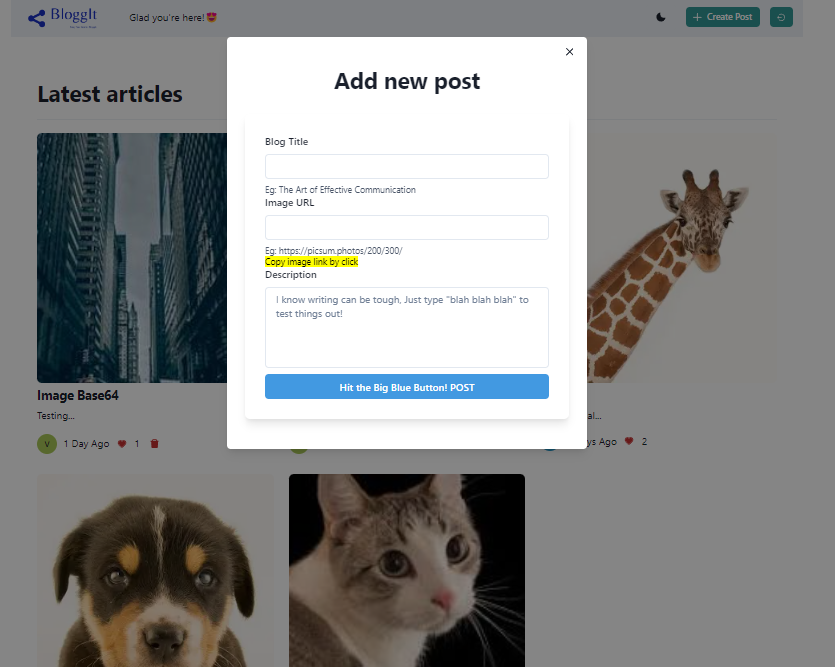
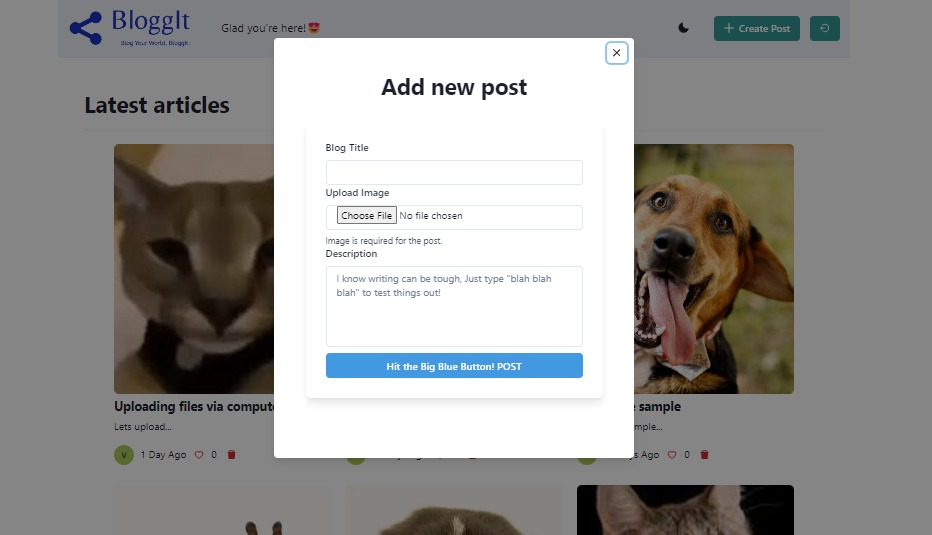
UI&ToggleLike&ReadMe&RevokePermission

diff --git a/src/components/layout/Navbar.jsx b/src/components/layout/Navbar.jsx
@@ -59,7 +59,7 @@ export default function Navbar() {
       <Box bg={useColorModeValue("gray.100", "gray.900")} px={4}>
         <Flex h={24} alignItems={"center"} justifyContent={"space-between"}>
           <IconButton
-            size={"md"}
+            size={"lg"}
             icon={isMenuOpen ? <CloseIcon /> : <HamburgerIcon />}
             aria-label={"Open Menu"}
             display={{ md: "none" }}
@@ -101,8 +101,8 @@ export default function Navbar() {
                 <Link
                   px={4}
                   py={2}
-                  fontSize="md"
-                  rounded={"md"}
+                  fontSize="lg"
+                  rounded={"lg"}
                   _hover={{
                     textDecoration: "none",
                   }}
@@ -113,21 +113,25 @@ export default function Navbar() {
             </HStack>
           </HStack>
           <Flex alignItems={"center"}>
-            <Button mr={4} onClick={toggleColorMode} size="md">
-              {colorMode === "light" ? <MoonIcon /> : <SunIcon />}
-            </Button>
-            {user ? (
-              <Button
-                variant={"solid"}
-                colorScheme={"teal"}
-                size={"md"}
-                fontSize="md"
-                mr={4}
-                onClick={onModalOpen}
-                leftIcon={<AddIcon />}
-              >
-                Create Post
+            <Tooltip label={ colorMode === "light" ? "Go Dark!" : "Go Light!"}>
+              <Button mr={4} onClick={toggleColorMode} size="lg">
+                {colorMode === "light" ? <MoonIcon /> : <SunIcon />}
               </Button>
+            </Tooltip>
+            {user ? (
+              <Tooltip label="Your Words, Your World - Start Blogging!">
+                <Button
+                  variant={"solid"}
+                  colorScheme={"teal"}
+                  size={"md"}
+                  fontSize="md"
+                  mr={4}
+                  onClick={onModalOpen}
+                  leftIcon={<AddIcon />}
+                >
+                  Create Post
+                </Button>
+              </Tooltip>
             ) : (
               <Tooltip label="Activate me, captain! Login required">
                 <Button
@@ -161,16 +165,18 @@ export default function Navbar() {
             </Modal>
             
             {user && (
-              <Button
-                ml="auto"
-                colorScheme="teal"
-                size="md"
-                fontSize="md"
-                onClick={logout}
-                isLoading={isLoading}
-              >
-                <Icon as={RiLogoutCircleLine} />
-              </Button>
+              <Tooltip label="Don't forget to log out before you go!">
+                <Button
+                  ml="auto"
+                  colorScheme="teal"
+                  size="md"
+                  fontSize="md"
+                  onClick={logout}
+                  isLoading={isLoading}
+                >
+                  <Icon as={RiLogoutCircleLine} />
+                </Button>
+              </Tooltip>
             )}
           </Flex>
         </Flex>
@@ -200,8 +206,8 @@ export default function Navbar() {
                 <Link
                   px={4}
                   py={2}
-                  fontSize="md"
-                  rounded={"md"}
+                  fontSize="lg"
+                  rounded={"lg"}
                   _hover={{
                     textDecoration: "none",
                   }}

diff --git a/src/hooks/posts.js b/src/hooks/posts.js
@@ -4,6 +4,8 @@ import { arrayRemove, arrayUnion, collection, deleteDoc, doc, orderBy, query, se
 import { useState } from "react";
 import { db } from "../lib/firebase";
 import { useCollectionData, useDocumentData } from 'react-firebase-hooks/firestore'
+import { useNavigate } from "react-router-dom";
+
 export function useAddPost() {
     const [isLoading, setLoading] = useState(false);
     const toast = useToast();
@@ -47,13 +49,25 @@ export function usePosts(uid = null) {
 
 export function useToggleLike({ id, isLiked, uid }) {
     const [isLoading, setLoading] = useState(false);
+    const toast = useToast();
 
     async function toggleLike() {
         setLoading(true);
-        const docRef = doc(db, "posts", id);
-        await updateDoc(docRef, {
-            likes: isLiked ? arrayRemove(uid) : arrayUnion(uid),
-        });
+        if(!uid){
+            toast({
+                title: "You need to login first!",
+                status: "info",
+                isClosable: true,
+                position: "top",
+                duration: 5000,
+            });
+        } 
+        else{
+            const docRef = doc(db, "posts", id);
+            await updateDoc(docRef, {
+                likes: isLiked ? arrayRemove(uid) : arrayUnion(uid),
+            });
+        }
         setLoading(false);
     }
 
@@ -61,6 +75,31 @@ export function useToggleLike({ id, isLiked, uid }) {
 }
 
 
+export function useHandleNavigation({ id, uid }) {
+  const [isLoading, setLoading] = useState(false);
+  const navigate = useNavigate();
+  const toast = useToast();
+
+  async function handleNavigation() {
+      setLoading(true);
+      if(!uid){
+          toast({
+            title: "You need to login first!",
+            status: "info",
+            isClosable: true,
+            position: "top",
+            duration: 5000,
+          });
+          navigate(`/login`);
+      } 
+      else{
+          navigate(`/posts/${id}`);
+      }
+      setLoading(false);
+  }
+
+  return { handleNavigation, isLoading };
+}
 
 export function useDeletePost(id) {
     const [isLoading, setLoading] = useState(false);
@@ -72,7 +111,6 @@ export function useDeletePost(id) {
         if (res) {
             setLoading(true);
 
-            // Delete post document
             await deleteDoc(doc(db, "posts", id));
             toast({
                 title: "Post deleted!",

diff --git a/src/components/posts/SinglePost.jsx b/src/components/posts/SinglePost.jsx
@@ -12,7 +12,7 @@ import {
 import {useAuth} from "../../hooks/auths";
 import {formatDistanceToNow} from "date-fns";
 import {AiTwotoneHeart, AiOutlineHeart, AiFillDelete} from "react-icons/ai";
-import {useDeletePost, useToggleLike} from "../../hooks/posts";
+import {useDeletePost, useToggleLike, useHandleNavigation} from "../../hooks/posts";
 import {Link as routerLink} from "react-router-dom";
 import {useUser} from "../../hooks/user";
 
@@ -26,12 +26,19 @@ const SinglePost = ({post}) => {
     uid: user?.id,
   });
   const {deletePost, isLoading: deleteLoading} = useDeletePost(id);
+  const {handleNavigation} = useHandleNavigation({id, uid: user?.id});
   const {user: users, isLoading: userLoading} = useUser(uid);
   return (
     <>
       <Box w='100%' key={post.id}>
         <Box borderRadius='lg' overflow='hidden'>
-          <Link textDecoration='none' _hover={{textDecoration: "none"}}>
+          <Link
+            textDecoration='none'
+            _hover={{textDecoration: "none"}}
+            onClick={() => handleNavigation(post.id)}
+            // as={routerLink}
+            // to={`/posts/${post?.id}`}
+          >
             <Image
               transform='scale(1.0)'
               src={post.imageUrl}
@@ -50,8 +57,9 @@ const SinglePost = ({post}) => {
           <Link
             textDecoration='none'
             _hover={{textDecoration: "none"}}
-            as={routerLink}
-            to={`/posts/${post?.id}`}
+            onClick={() => handleNavigation(post.id)}
+            // as={routerLink}
+            // to={`/posts/${post?.id}`}
           >
             {post.title}
           </Link>

diff --git a/src/components/layout/Footer.jsx b/src/components/layout/Footer.jsx
@@ -23,7 +23,7 @@ export default function Footer() {
         justify={{base: "center", md: "space-between"}}
         align={{base: "center", md: "center"}}
       >
-        <Text>© Viraj Jagtap</Text>
+        <Text>© 2024 Viraj Jagtap</Text>
         <Stack direction={"row"} spacing={6}>
           <chakra.button
             bg={useColorModeValue("blackAlpha.100", "whiteAlpha.100")}
@@ -32,7 +32,7 @@ export default function Footer() {
             h={8}
             cursor={"pointer"}
             as={"a"}
-            href={"https://github.com/VirajJagtap001"}
+            href={"https://github.com/VirajJagtap001/BloggIt"}
             display={"inline-flex"}
             alignItems={"center"}
             justifyContent={"center"}

diff --git a/src/components/layout/PostList.jsx b/src/components/layout/PostList.jsx
@@ -27,7 +27,7 @@ export default function PostList() {
 
   return (
     <Container maxW={"7xl"} p='12'>
-      <Heading as='h2' marginTop='5'>
+      <Heading as='h2' marginTop='1'>
         Latest articles
       </Heading>
       <Divider marginTop='5' />
@@ -35,6 +35,8 @@ export default function PostList() {
         templateColumns='repeat(auto-fill, minmax(300px, 2fr))'
         gap={6}
         marginTop='5'
+        marginLeft='12'
+        marginRight='12'
       >
         {posts.map(post => (
           <GridItem key={post.id}>

diff --git a/README.md b/README.md
@@ -13,7 +13,7 @@ This is a React-based blog app that lets users create, like, and delete posts. T
 
 ![login](./public/login.png)
 
-You can access posts without logging in, but to create your own posts, you need to login or create an account. If you would like to try out the feature, you can use the following user credentials:
+You can access some part of posts without logging in, but to access the full post, to create your own posts, you need to login or create an account. If you would like to try out the feature, you can use the following user credentials:
 
 viraj@gmail.com
 12345678
@@ -31,7 +31,7 @@ Upon logging in or registering, users will be directed to the homepage where the
 ### New post
 
 ![newpost](./public/create-new-post.png)
-By clicking on the 'Add Post' button, users can access a modal that allows them to create a new post with a title, description, image URL, and content.
+By clicking on the 'Add Post' button, users can access a modal that allows them to create a new post with a title, image and description.
 
 ### Others
 
